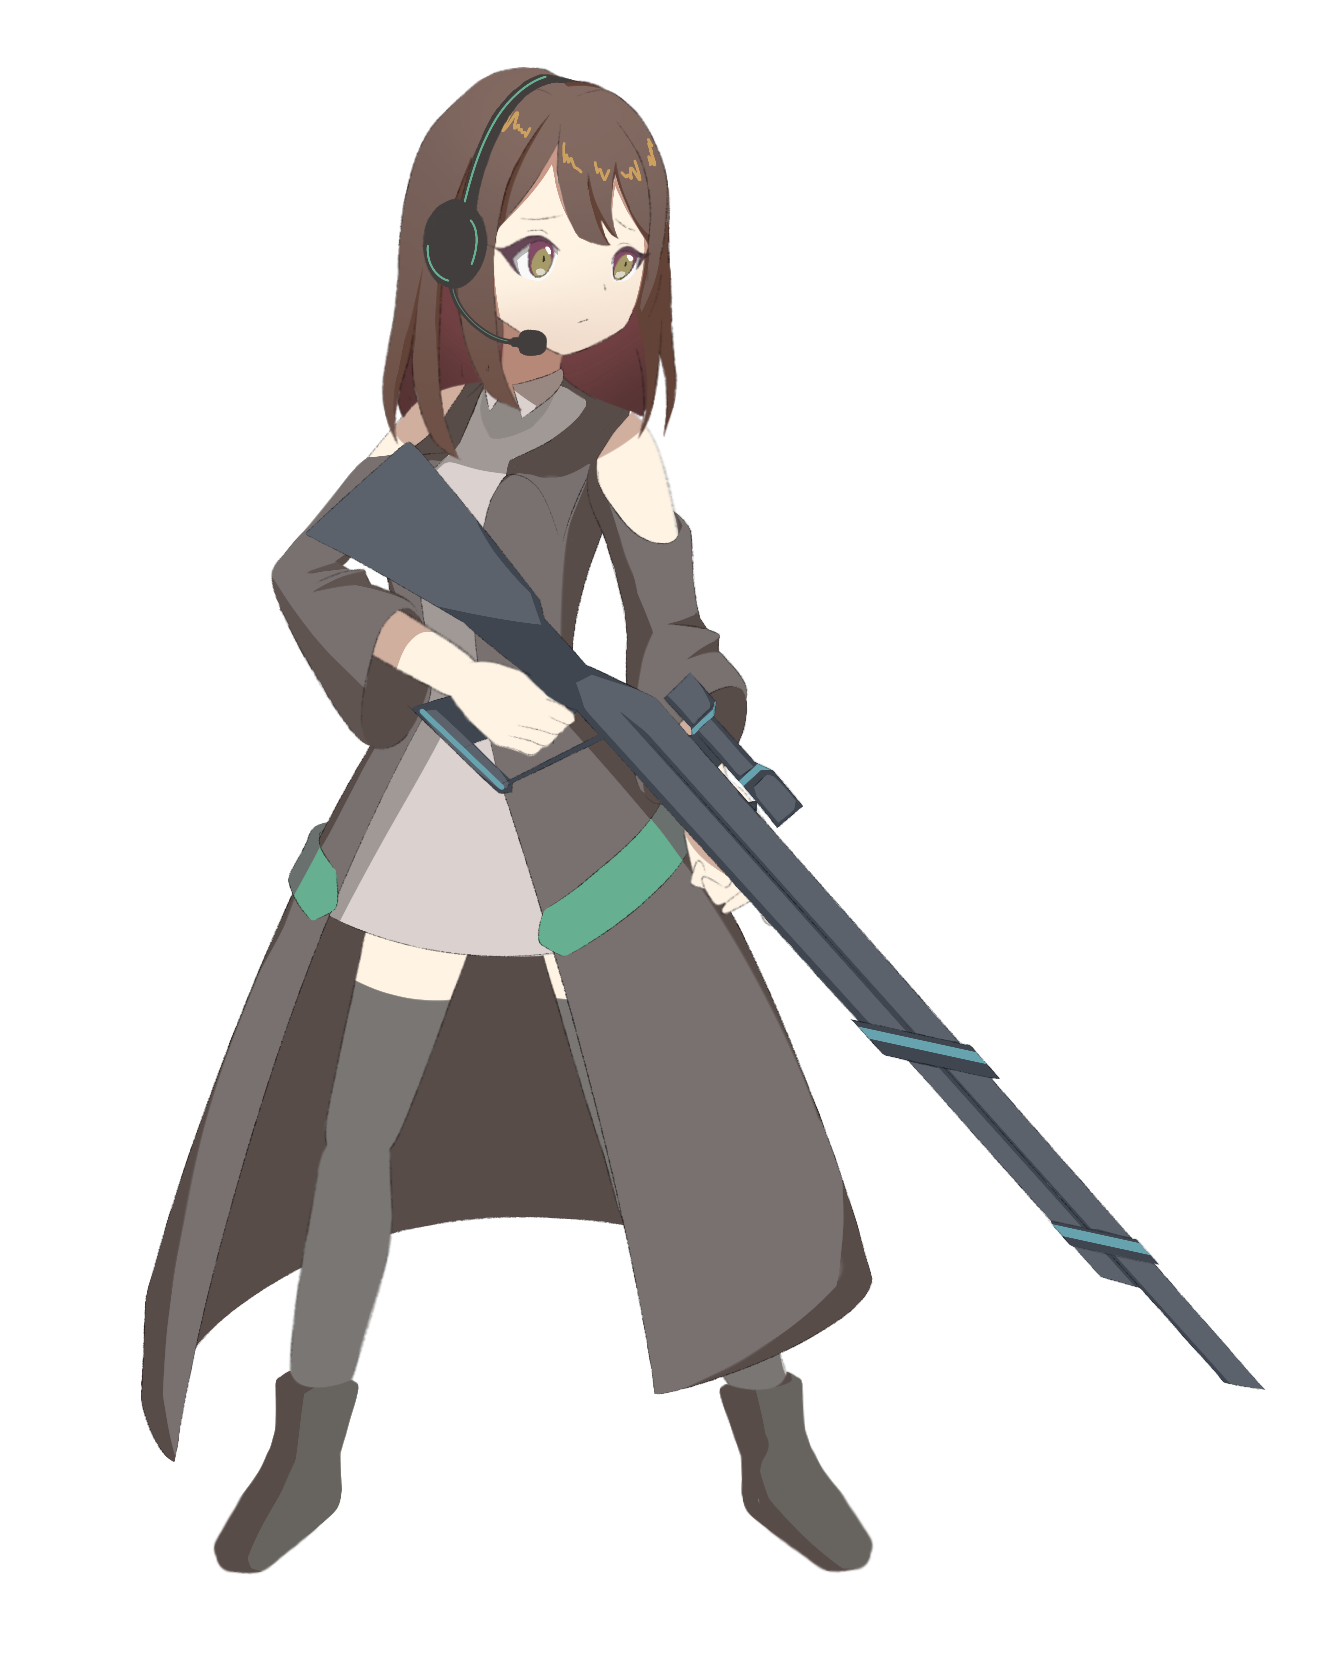
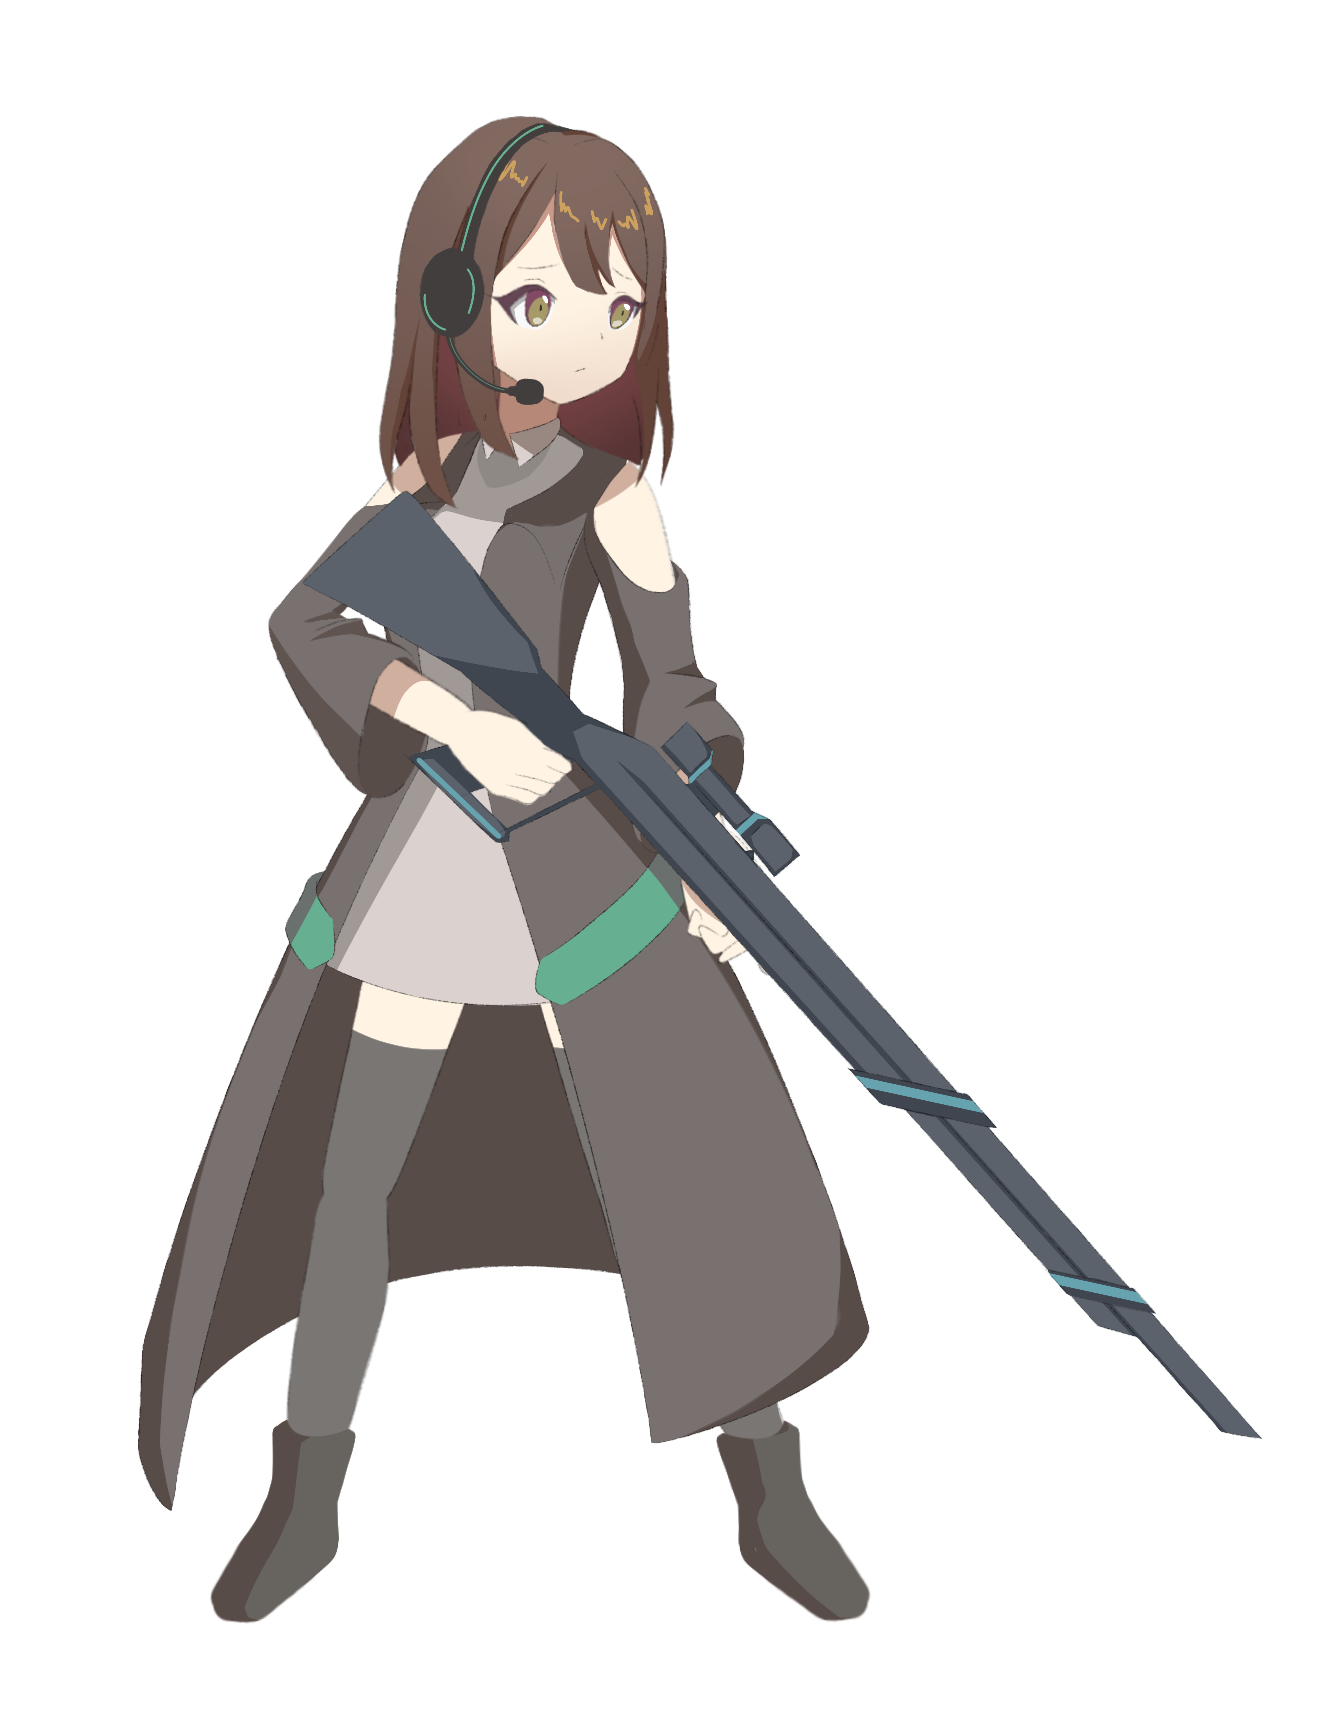
ガンナーの画像サイズ修正

diff --git a/css/templatemo-festava-live.css b/css/templatemo-festava-live.css
@@ -738,19 +738,18 @@ strong {
 .artists-thumb {
     position: relative;
     overflow: hidden;
-    margin-bottom: 30px;
+    margin-bottom: 50px;
     display: flex;
     width: 80%;
     height: auto;
     flex-direction: column;
     justify-content: center;
-
 }
 
 .artists-thumb-剣士 {
     position: relative;
     overflow: hidden;
-    margin-bottom: 30px;
+    margin-bottom: 0;
     display: flex;
     /*width: 80%;*/
     height: auto;
@@ -762,13 +761,14 @@ strong {
 .artists-thumb-ガンナー {
     position: relative;
     overflow: hidden;
-    margin-bottom: -10px;
+    margin-bottom: -20px;
     /*margin-left: 100px;*/
     display: flex;
     /*width: 85%;*/
     height: auto;
     flex-direction: column;
     justify-content: center;
+    margin-top: 20px;
 }
 /*--------------------------------
  モーダル
@@ -1038,7 +1038,7 @@ button:hover {
 !important;
     max-width: 100%;
 !important;
-    height: auto;
+    height: 100%;
 }
 .artists-image-wrap button {
     position: relative;
@@ -1069,6 +1069,10 @@ button:hover {
 }
 .artists-hover p{
     color: black;
+    margin-left: -20px;
+    text-align: center;
+    align-items: center;
+    justify-content: center;
 }
 
 .artists-hover p strong {
@@ -1105,13 +1109,17 @@ button:hover {
     transition: all 0.5s ease;
     /*transform: translateY(100%);*/
     position: absolute;
-    bottom: 55px;
+    bottom: 90px;
     right: 0;
     left: 0;
     /*opacity: 0;*/
 }
 .artists-hover-Gunner p{
     color: black;
+    margin-left: -20px;
+    text-align: center;
+    align-items: center;
+    justify-content: center;
 }
 
 .artists-hover-Gunner p strong {
@@ -1122,7 +1130,6 @@ button:hover {
     justify-items: center;
     justify-content: center;
     align-items: center;
-    /*margin-left: 30px;*/
     font-size: 20px;
 }
 
@@ -1264,6 +1271,7 @@ button:hover {
     flex-direction: column;
     justify-content: center;
     align-items: center;
+    margin-left: auto;
 }
 
 /* ホバー時 */
@@ -1697,7 +1705,7 @@ button:hover {
             flex-direction: column;
             align-items: center;
             text-align: center;
-            font-size:15px ;
+            font-size:14px ;
         }
 
         .genre .break {

diff --git a/js/Developer.js b/js/Developer.js
@@ -5,7 +5,7 @@ document.addEventListener("DOMContentLoaded", () => {
         {name: "Rui Enomoto", role: "クライアント開発"},
         {name: "Kyosuke Kawaguchi", role: "キャラクター・UI・ビジュアル・グラフィックデザイナー <br>キャラクターアニメーション"},
         {name: "Kosuke Kida", role: "サーバー開発・設計"},
-        {name: "Yuuto Takamiya", role: "デザイナー<br>Web開発エンジニア"},
+        {name: "Yuuto Takamiya", role: "キャラクターデザイナー<br>Web開発エンジニア"},
         {name: "Kenta Nakamoto", role: "クライアント開発"},
         {name: "Kouta Nishiura", role: "プランナー<br>ギミック・ステージ設計<br>リアルタイムAPI開発"},
         {name: "Yuki Miura", role: "ギミック設計"},

diff --git a/index.html b/index.html
@@ -387,8 +387,6 @@
     <!-- /contact -->
 </main>
 
-
-
 <!-- JAVASCRIPT FILES -->
 <script src="js/jquery.min.js"></script>
 <script src="js/bootstrap.min.js"></script>
